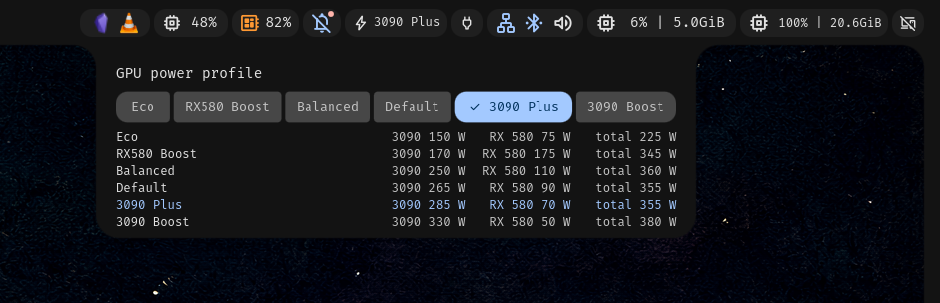
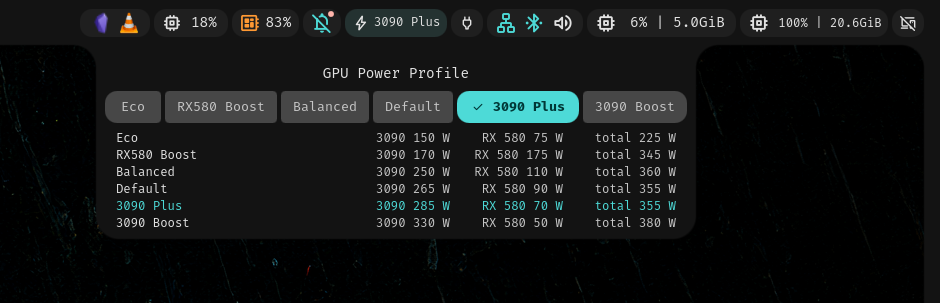
Bold selected label, half-px label sizing instead of fractional scale, new screenshot

diff --git a/lactProfiles/LactProfilesWidget.qml b/lactProfiles/LactProfilesWidget.qml
@@ -135,23 +135,54 @@ PluginComponent {
                 topPadding: Theme.spacingM
             }
 
-            // Same control as the DMS battery popout's power-profile selector
+            // Same control as the DMS battery popout's power-profile selector.
+            // Labels shrink in 0.5 px steps to fit (a fractional scale blurs the glyphs).
             Item {
+                id: groupBox
                 width: parent.width
                 visible: !root.scriptMissing
-                height: profileGroup.height * profileGroup.scale
+                height: profileGroup.height
+                readonly property int basePx: Theme.fontSizeSmall + 1
+                readonly property real labelPx: groupProbe.implicitWidth <= 0 ? basePx
+                    : Math.max(8, Math.floor(basePx * Math.min(1, (width - Theme.spacingM * 2) * 0.97 / groupProbe.implicitWidth) * 2) / 2)
+
+                // Same group at full size, only measured
+                DankButtonGroup {
+                    id: groupProbe
+                    visible: false
+                    size: "small"
+                    textSize: groupBox.basePx
+                    model: profileGroup.model
+                }
 
                 DankButtonGroup {
                     id: profileGroup
                     size: "small"
-                    textSize: Theme.fontSizeSmall + 1
-                    scale: Math.min(1, (parent.width - Theme.spacingM * 2) / implicitWidth)
-                    transformOrigin: Item.Center
+                    textSize: groupBox.basePx
                     anchors.horizontalCenter: parent.horizontalCenter
                     model: root.profiles.map(p => root.label(p))
                     currentIndex: root.profiles.indexOf(root.busyProfile !== "" ? root.busyProfile : root.current)
                     selectionMode: "single"
                     enabled: root.busyProfile === ""
+                    // DankButtonGroup hardcodes the label font; rebind size and weight (selected = Bold)
+                    function restyle(item) {
+                        for (const c of item.children) {
+                            if (c.selected !== undefined) {
+                                const seg = c
+                                const walk = n => {
+                                    for (const k of n.children) {
+                                        if (k.capAvailable !== undefined) {
+                                            k.font.pixelSize = Qt.binding(() => groupBox.labelPx)
+                                            k.font.weight = Qt.binding(() => seg.selected ? Font.Bold : Font.Normal)
+                                        } else walk(k)
+                                    }
+                                }
+                                walk(seg)
+                            } else restyle(c)
+                        }
+                    }
+                    onModelChanged: Qt.callLater(() => restyle(profileGroup))
+                    Component.onCompleted: Qt.callLater(() => restyle(profileGroup))
                     onSelectionChanged: (index, selected) => {
                         if (selected && root.profiles[index] !== root.current)
                             root.apply(root.profiles[index])
